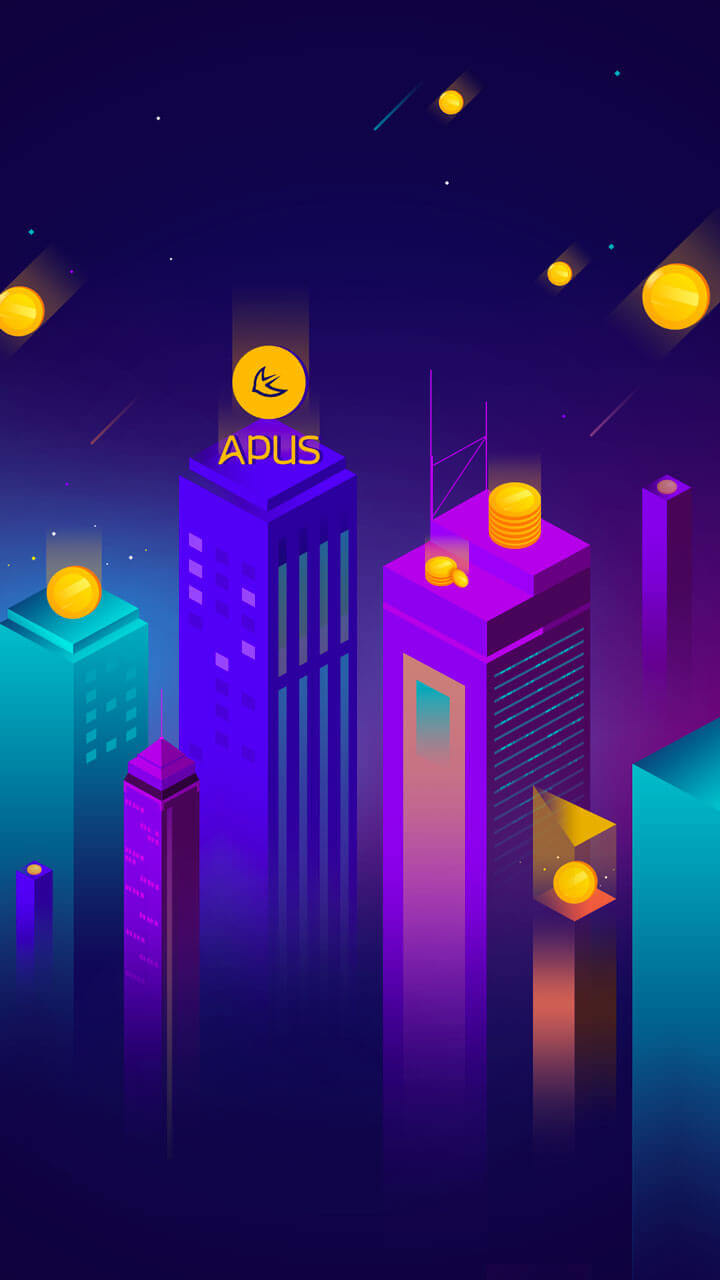
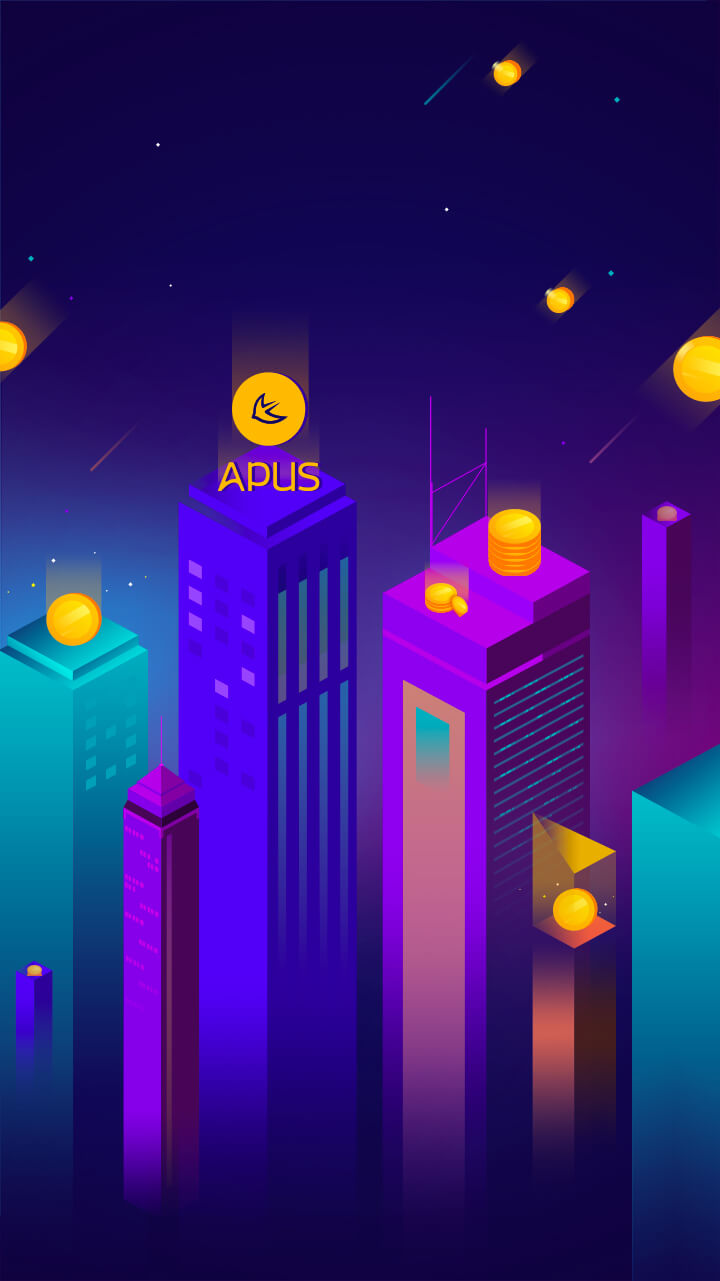
修改await页面ui

diff --git a/src/components/NextTime.vue b/src/components/NextTime.vue
@@ -1,12 +1,18 @@
 <template>
   <div class="hint">
-    <p class="hint__text">The next start time</p>
-    <div class="hint__info">
-      <p class="hint__info__time">
-        {{nextTime}}
+    <div class="hint__time">
+      <p class="hint__time__text">
+        Next Quiz
+        <span class="hint__time__text__day"> {{nextTime[0]}}</span>
       </p>
-      <p class="hint__info__line"></p>
-      <p class="hint__info__money">
+      <p class="hint__time__hour">
+        {{nextTime[1]}}
+      </p>
+    </div>
+    <div class="hint__line"></div>
+    <div class="hint__money">
+      <p class="hint__money__text">Next Bonus</p>
+      <p class="hint__money__number">
         {{currencyType}}{{money}}
       </p>
     </div>
@@ -18,7 +24,7 @@ export default {
   name: 'NextTime',
   props: {
     nextTime: {
-      type: String
+      type: Array
     },
     money: {
       type: Number
@@ -38,52 +44,37 @@ export default {
     font-size: 28px;
     opacity: 0.95;
     margin-top: 46.6px;
-    &__text{
-      width:310px;
-      height: 43px;
-      background-color: rgba(255, 255, 255, 0.2);
+    display: flex;
+    justify-content: center;
+    &__time, &__money{
+      width: 50%;
+      display: block;
       text-align: center;
-      border-radius: 46px;
-      margin: 0 auto;
-      font:28px Roboto-Light;
-      line-height: 43px;
+      &__text{
+        font-family: 'Roboto-Light';
+        font-size: 28px;
+        &__day{
+          color: #ffb227;
+        }
+      }
+      &__hour,&__number{
+        margin-top: 25px;
+        color: #ffb227;
+        font-size: 56px;
+        font-family: 'Roboto-BoldCondensed';
+      }
+      &__hour{
+        color: #fff;
+      }
     }
-    &__info{
-      margin-top:15px;
-      display: flex;
-      justify-content: center;
-      &__time, &__money{
-        letter-spacing: 1px;
-        font: 28px Roboto-Light;
-      }
-      &__time{
-        padding-right:16px;
-        text-align: right;
-        align-self: center;
-      }
-      &__money{
-        margin-left: 16px;
-        text-align: left;
-        align-self: center;
-      }
-      &__line{
-        height: 28px;
-        border-right: 2px solid #fff;
-        align-self: center;
-      }
+    &__line{
+      opacity: 0.3;
+      width: 2px;
+      height: 76px;
+      background-color: #fff;
+      align-self: center;
     }
   }
   @media screen and (max-width: 321px){
-    .hint{
-      &__info{
-        &__line{
-          height: 28px;
-          border: 5px solid #fff;
-          transform: scaleX(0.5);
-          margin-top: 2px;
-        }
-      }
-    }
-
   }
 </style>

diff --git a/src/views/Await.vue b/src/views/Await.vue
@@ -9,7 +9,7 @@
         </router-link>
       </div>
     </div>
-    <img src="../assets/images/await-title.png" class="await-container__title">
+    <img src="../assets/images/logo.png" class="await-container__title">
     <next-time :nextTime="targetDate" :money="userInfo.bonusAmount" :currencyType="userInfo.currencyType"></next-time>
     <base-info :baseInfo="userInfo"></base-info>
     <div class="await-container__btn">
@@ -50,7 +50,7 @@ export default {
     }),
     targetDate () {
       if (this.startTime === -1) {
-        return 'coming soon'
+        return ['', 'coming soon']
       } else {
         let nowDate = new Date(new Date().getTime() + this.startTime * 1000)
         let month = nowDate.getMonth() + 1
@@ -66,32 +66,14 @@ export default {
         if (minute <= 9) {
           minute = '0' + minute
         }
-        return month + '.' + day + ' ' + hour + ':' + minute
+        return [month + '/' + day, hour + ':' + minute]
       }
     }
   },
   mounted () {
     this.$store.dispatch(type.HOME_UPDATE)
-    this.DateFormatter()
   },
   methods: {
-    DateFormatter () {
-      let nowDate = new Date(new Date().getTime() + this.startTime * 1000)
-      let month = nowDate.getMonth() + 1
-      let day = nowDate.getDate()
-      let hour = nowDate.getHours()
-      let minute = nowDate.getMinutes()
-      if (month <= 9) {
-        month = '0' + month
-      }
-      if (day <= 9) {
-        day = '0' + day
-      }
-      if (minute <= 9) {
-        minute = '0' + minute
-      }
-      this.targetDate = month + '.' + day + ' ' + hour + ':' + minute
-    },
     inviteFriends () {
       utils.share()
     }
@@ -138,7 +120,6 @@ export default {
       }
     }
     &__title{
-      padding-top: 60px;
       width: 400px;
       margin: 0 auto;
     }
@@ -146,13 +127,6 @@ export default {
       display: flex;
       padding:0 25px;
       justify-content: space-between;
-    }
-  }
-  @media screen and (max-width: 321px){
-    .await-container{
-      &__title{
-        padding-top: 50px;
-      }
     }
   }
 </style>

diff --git a/src/components/CountDown.vue b/src/components/CountDown.vue
@@ -1,6 +1,6 @@
 <template>
   <div class="count-down-container">
-    <div class="count-down-container__module" v-if="startTime > 10">
+    <div class="count-down-container__module" v-if="startTime > 10 || startTime === 0 ">
       <p class="count-down-container__module__text">The game is about to begin...</p>
       <p class="count-down-container__module__time">{{countDown}}</p>
     </div>
@@ -16,6 +16,7 @@
 
 <script>
 import {mapGetters} from 'vuex'
+import utils from '../assets/js/utils'
 export default {
   name: 'CountDown',
   data () {
@@ -44,12 +45,9 @@ export default {
   },
   methods: {
     playingAudio (time) {
-      let countdown = new Audio()
-      countdown.src = require('../assets/audio/click.mp3')
-      countdown.preload = 'auto'
-      countdown.load()
       if (time <= 10 && time !== 0) {
-        countdown.play()
+        console.log('.................')
+        utils.playSound('countDown')
       }
     }
   },

diff --git a/src/components/BaseInfo.vue b/src/components/BaseInfo.vue
@@ -63,7 +63,7 @@ export default {
     }
     &__other{
       display: flex;
-      margin-top: 45px;
+      margin-top: 35px;
       justify-content: center;
       .balance-router, .balance-rank{
         width: 50%;
@@ -71,9 +71,10 @@ export default {
       }
       &__line{
         align-self: center;
+        width: 2px;
         height: 76px;
-        border: 1px solid #e0ddea;
         opacity: 0.5;
+        background-color: #e0ddea;
       }
       &__balance, &__rank {
         margin: 0 auto;
@@ -98,7 +99,7 @@ export default {
      margin:100px auto 25px;
      padding-bottom: 80px;
       &__other{
-        margin-top: 25px;
+        margin-top: 20px;
         &__line{
           border:5px solid #e0ddea;
           opacity: 0.5;

diff --git a/src/views/Login.vue b/src/views/Login.vue
@@ -1,6 +1,6 @@
 <template>
   <div class="login-container">
-    <img src="../assets/images/login-title.png" class="login-container__title">
+    <img src="../assets/images/logo.png" class="login-container__title">
     <div class="login-container__btn">
       <p class="login-container__btn__fb" @click="Login">Log in</p>
     </div>
@@ -69,7 +69,7 @@ export default {
     background-size: cover;
     position: relative;
     &__title{
-      padding-top: 120px;
+      padding-top: 86px;
       width: 592px;
       margin: 0 auto;
     }

diff --git a/src/assets/js/http.js b/src/assets/js/http.js
@@ -1,5 +1,5 @@
 import axios from 'axios'
-const env = 'dev'
+const env = 'local'
 const host = {
   local: 'https://mock.apuscn.com/mock/30/millionaire',
   dev: 'http://dev-millionaire-api.apuscn.com',
@@ -7,6 +7,6 @@ const host = {
   prod: ''
 }
 export default axios.create({
-  baseURL: host[env],
-  withCredentials: true
+  baseURL: host[env]
+  // withCredentials: true
 })

diff --git a/src/views/Main.vue b/src/views/Main.vue
@@ -24,7 +24,6 @@ import CountDown from '../components/CountDown.vue'
 import Respondence from '../components/Respondence'
 import WinnersResult from '../components/WinnersResult'
 import Compere from '../components/Compere'
-import * as type from '../store/type'
 export default {
   name: 'Main',
   data () {

diff --git a/src/assets/js/im.js b/src/assets/js/im.js
@@ -1,7 +1,7 @@
 /* global RongIMLib RongIMClient */
 import * as type from './listener-type'
-// const appKey = 'p5tvi9dsphpf4' // dev
-const appKey = 'pvxdm17jp3vvr' // test
+const appKey = 'p5tvi9dsphpf4' // dev
+// const appKey = 'pvxdm17jp3vvr' // test
 
 const im = {
 

diff --git a/src/assets/js/utils.js b/src/assets/js/utils.js
@@ -5,7 +5,7 @@ const TercelAutoPlayJs = window.top.TercelAutoPlayJs
 
 const sounds = {
   countDown: {
-    url: ''
+    url: 'http://static.subcdn.com/201803131150049d81f9e0f9.mp3'
   },
   bg: {
     url: 'http://static.subcdn.com/201803121452531a3de85f9a.mp3'
